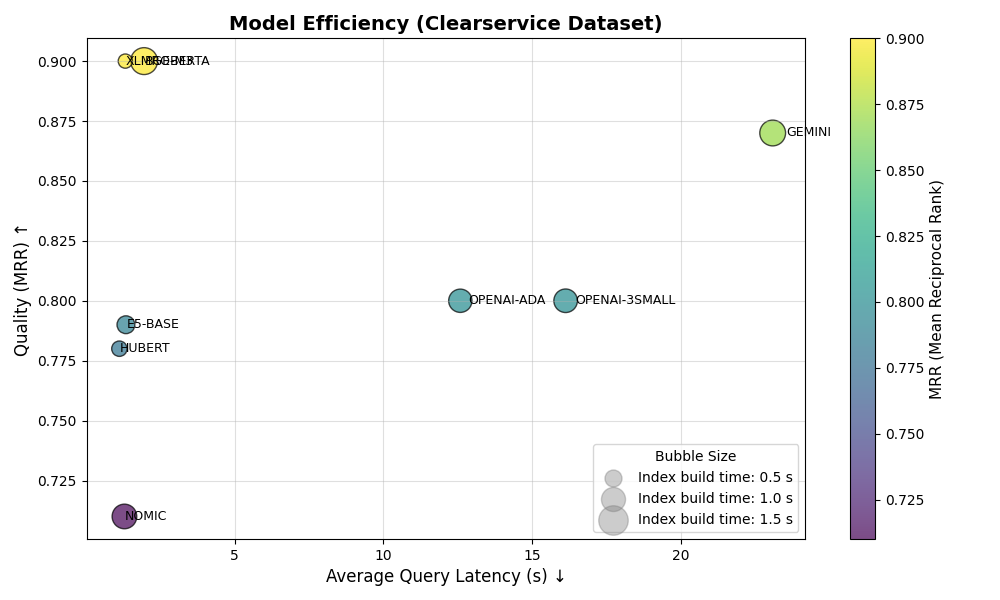
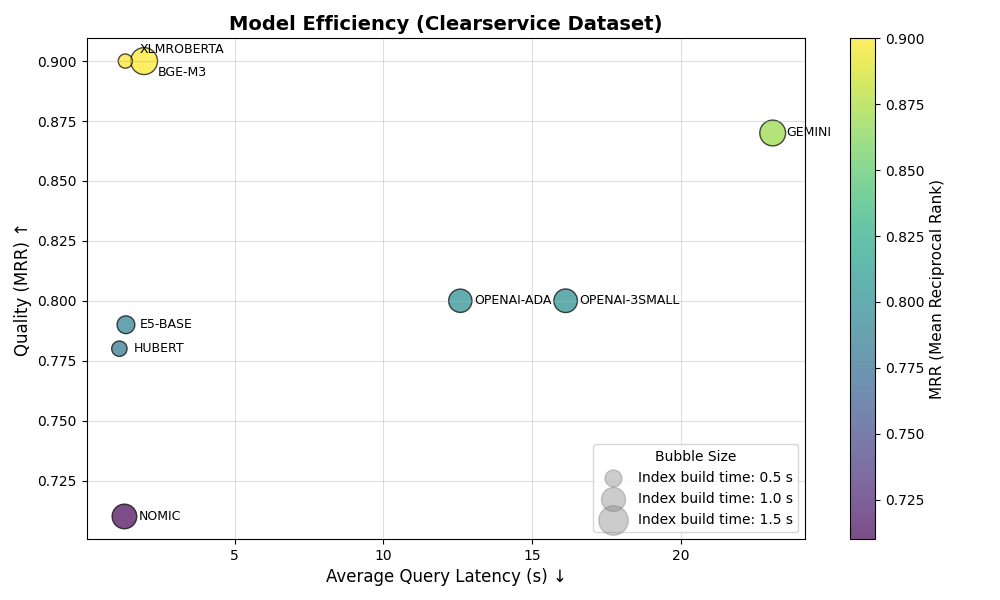
update plpts.py

diff --git a/plots.py b/plots.py
@@ -328,11 +328,30 @@ def plot_rag_efficiency():
 
     # Create figure
     plt.figure(figsize=(10, 6))
-    scatter = plt.scatter(query_latency, mrr, s=sizes, alpha=0.7, c=mrr, cmap='viridis', edgecolor='k')
+    scatter = plt.scatter(query_latency, mrr, s=sizes, alpha=0.7, 
+                          c=mrr, cmap='viridis', edgecolor='k')
 
     # Add annotations for model names
     for i, model in enumerate(models):
-        plt.text(query_latency[i] * 1.02, mrr[i], model, fontsize=9, va='center')
+
+        # Default 10 px right
+        dx = 10
+        dy = 0
+
+        # Avoid overlapping for specific labels
+        if model == "XLMROBERTA":
+            dy = +8
+        if model == "BGE-M3":
+            dy = -8
+
+        plt.annotate(
+            model,
+            (query_latency[i], mrr[i]),
+            xytext=(dx, dy),
+            textcoords='offset points',
+            fontsize=9,
+            va='center'
+        )
 
     # Labels and title
     plt.title("Model Efficiency (Clearservice Dataset)", fontsize=14, fontweight='bold')
@@ -342,7 +361,8 @@ def plot_rag_efficiency():
 
     # Legend for bubble sizes
     for size, label in zip([0.5, 1.0, 1.5], ['0.5 s', '1.0 s', '1.5 s']):
-        plt.scatter([], [], s=size*300, c='gray', alpha=0.4, label=f'Index build time: {label}')
+        plt.scatter([], [], s=size*300, c='gray', alpha=0.4, 
+                    label=f'Index build time: {label}')
     plt.legend(frameon=True, loc='lower right', title='Bubble Size')
 
     # Colorbar
@@ -353,6 +373,7 @@ def plot_rag_efficiency():
     plt.show()
 
 
+
 # plot_recall_at_3_clearservice()
 # plot_recall_at_3_hurte()
 # plot_model_comparison()
@@ -360,7 +381,7 @@ def plot_rag_efficiency():
 # plot_hurte_all_recall1()
 # plot_hurte_all_mrr()
 # plot_model_performance()
-# plot_rag_efficiency()
+plot_rag_efficiency()
 # plot_mrr_clearservice()
 # plot_mrr_hurte()
-plot_hurte_all_mrr()
+# plot_hurte_all_mrr()
